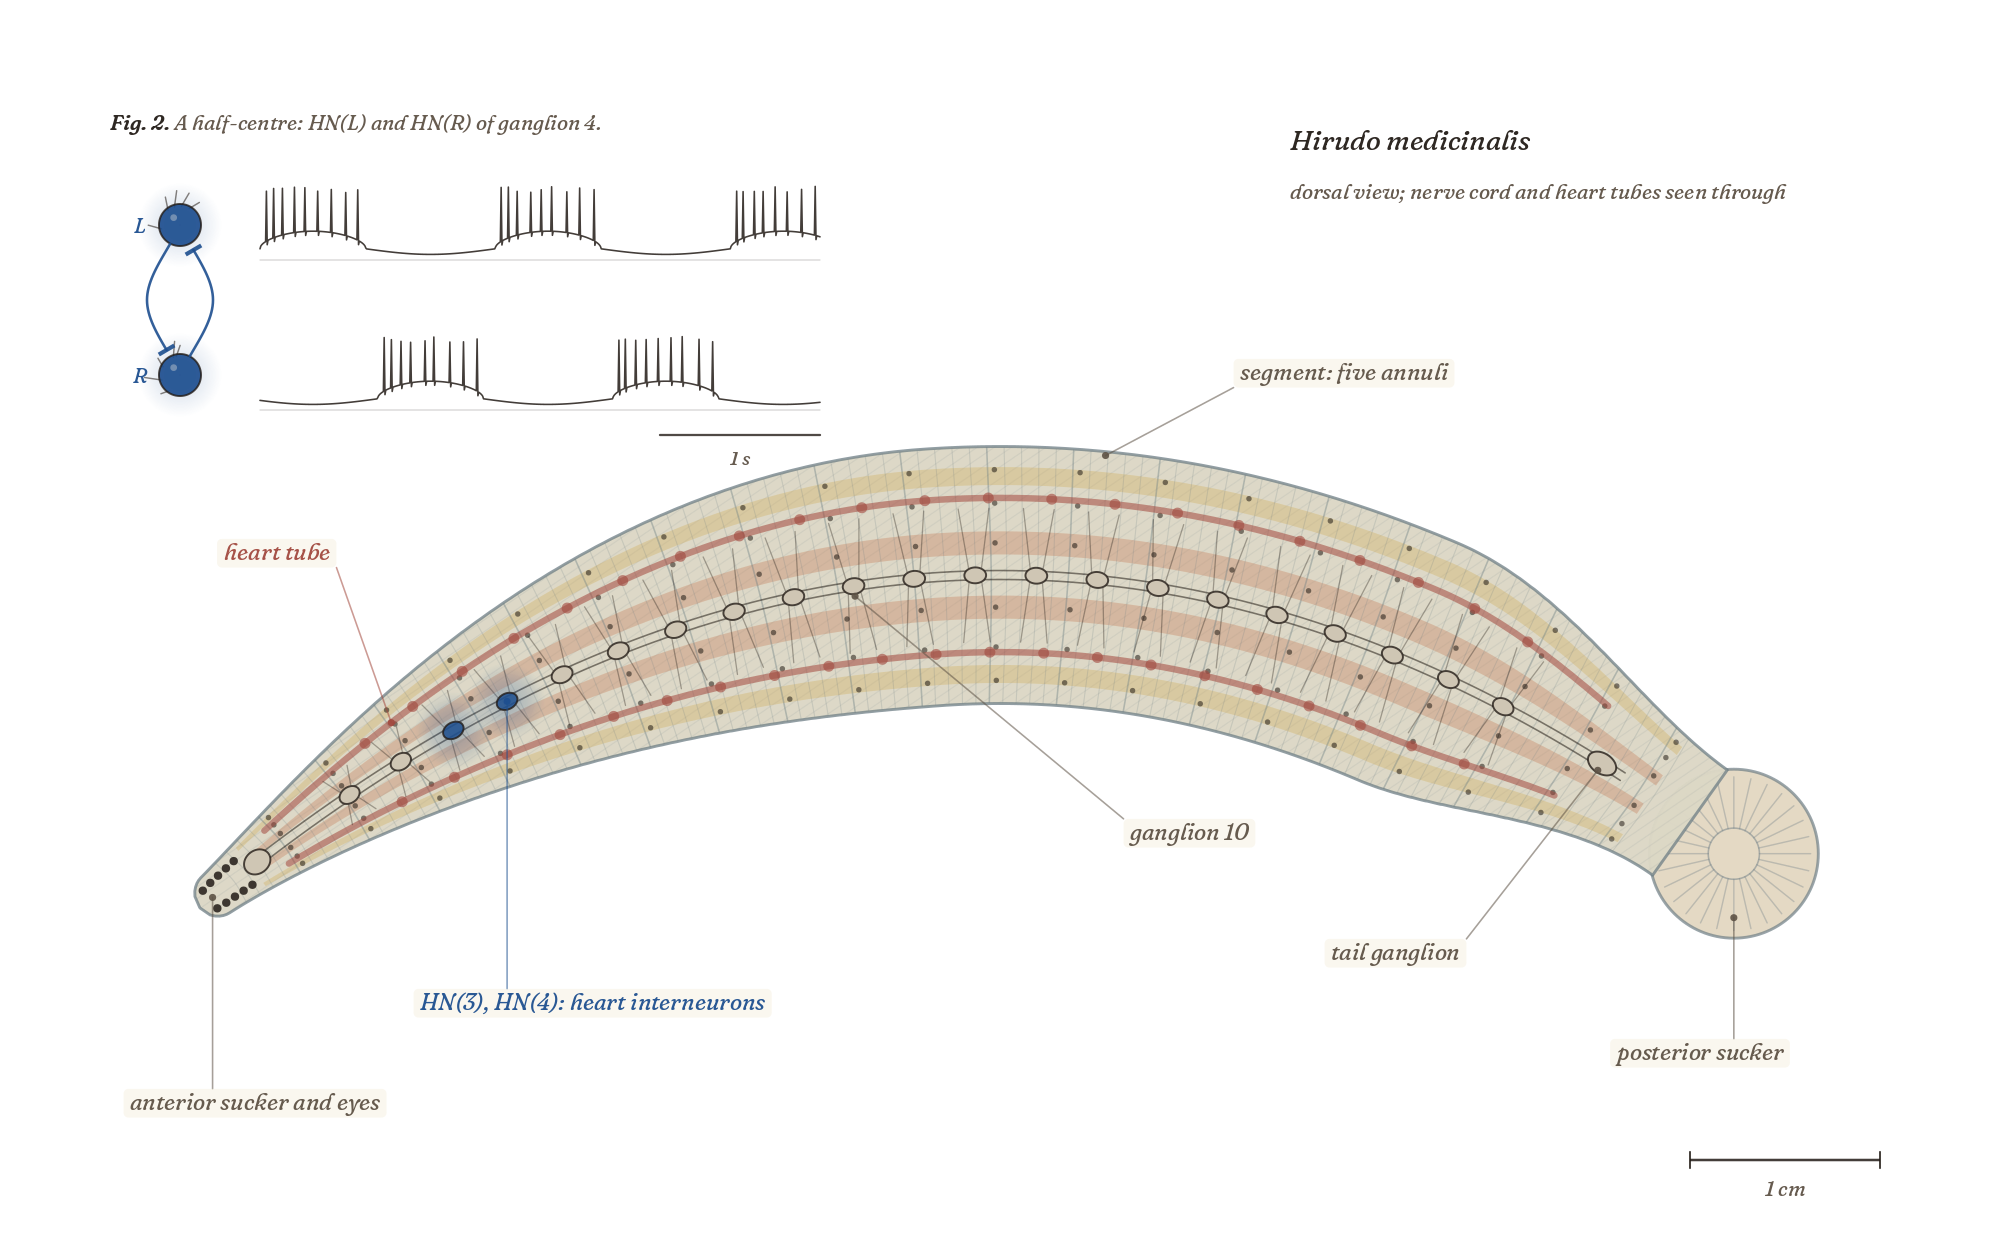
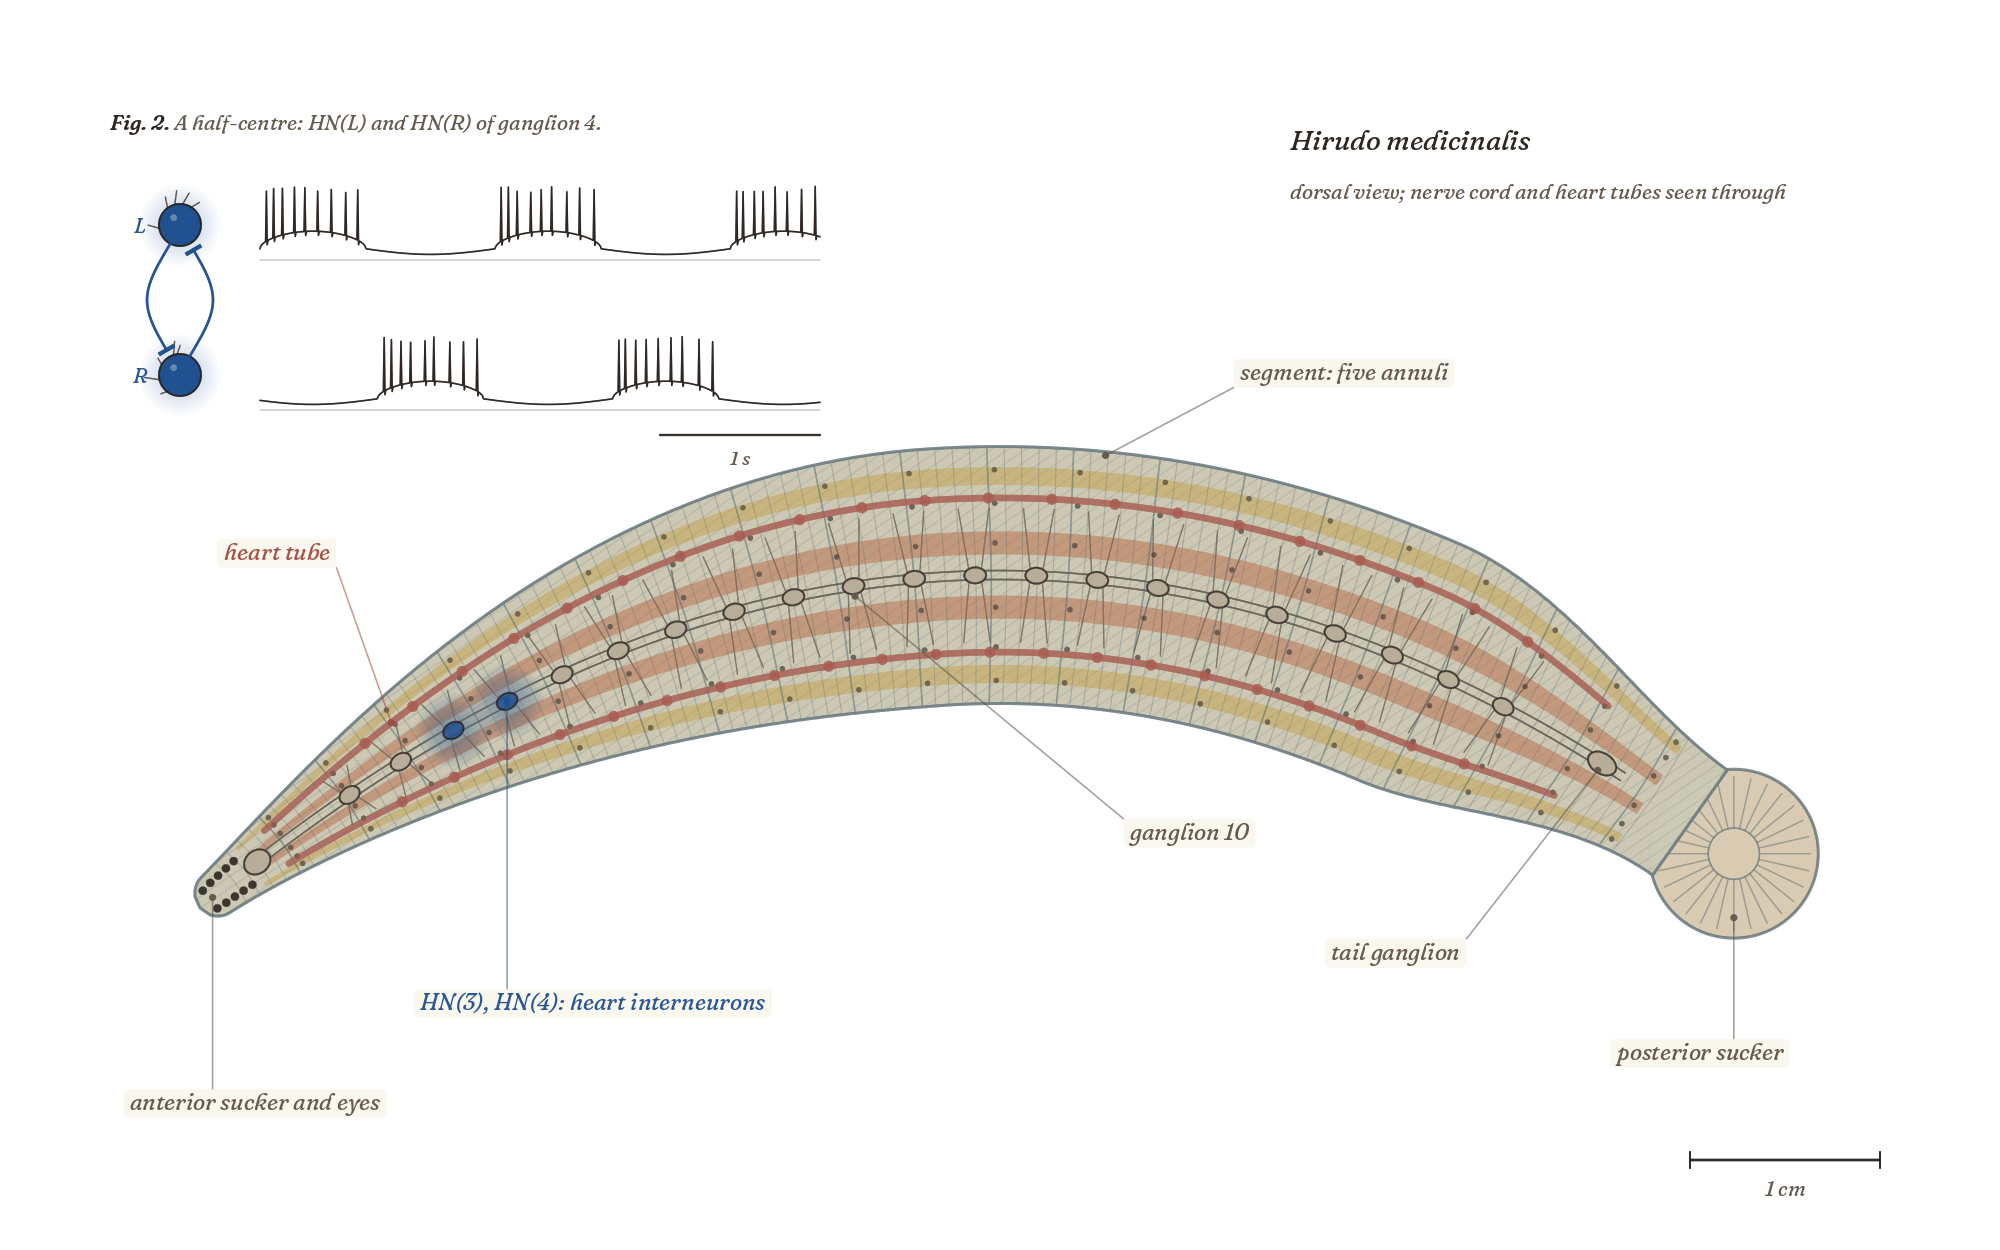
Campaign map: show the chapter plates, keep labels off their art
The ten Bestiary and Theory plates drew as a blank white page: _sc_plate_image
loaded the texture into a local, which was freed when the function returned,
before the canvas rendered, so the renderer drew its default white texture.
Textures are now held in a static cache.

- The plate is drawn at its own aspect; pins come from plates.json and its
  keep-out rects feed the label-plate placement (figures at half weight,
  lettering in full, lettering ignored on phones). plates.json is in both
  export include filters.
- Diagnosis and micro-puzzle label plates are placed too (they used to
  draw unplaced text off the right edge of the page); the fallback stays
  inside the page.
- Label placement penalises leaders that cross other plates, pins or
  leaders; the hover chips avoid their own plate and the art's lettering.
- Plate captions number every chapter in campaign order (I-XV).
- plates.py: diagnosis spots (BRANCH), keep rects for inset figures (FIGS),
  and an ink-density pass (ink.deepen) so the plates no longer read washed
  out next to the body plates. Regenerated; deterministic.

diff --git a/tools/art/plates.py b/tools/art/plates.py
@@ -36,6 +36,22 @@ LEVELS = {
     "dynamics": ["d_class", "d_phasic", "d_switch"], "rates": ["r_oscillate", "r_choose", "r_meanfield"],
     "memory": ["h_complete", "h_two", "h_learn"], "tuning": ["t_tuned", "t_sharpen", "t_decode"]}
 
+# Spots for the diagnosis cases, which hang off a spine level: a quiet patch near their parent with room for a label plate
+# beside it (fractions of the canvas, like PINS). A chapter left out here lets the map find a spot itself.
+BRANCH = {
+    "leech": {"dx_leech": (0.91, 0.36)}, "aplysia": {"dx_aplysia": (0.64, 0.86)},
+    "fly_mb": {"dx_mb_apl": (0.66, 0.92), "dx_mb_dan": (0.36, 0.90)}}
+
+# Keep-out rects (image px, weight) for the insets beside the specimen: the little figures, traces, legs and scale bars that
+# carry no lettered call-out of their own, so the map's label plates do not land on them.
+FIGS = {
+    "worm": [(1190, 200, 640, 210, 40), (870, 855, 260, 260, 40), (1680, 1140, 200, 50, 40)],
+    "leech": [(120, 180, 710, 260, 40), (1650, 770, 170, 170, 40), (1690, 1150, 190, 50, 40)],
+    "aplysia": [(130, 170, 560, 200, 40), (1740, 680, 200, 130, 40), (1700, 1140, 200, 60, 40)],
+    "fly_compass": [(90, 180, 320, 360, 40), (1450, 180, 420, 200, 40), (1370, 960, 610, 130, 40), (1740, 1150, 160, 60, 40)],
+    "fly_mb": [(90, 180, 230, 260, 40), (1620, 1150, 260, 60, 40)],
+    "crab": [(70, 120, 310, 290, 40), (1390, 140, 520, 250, 40), (190, 500, 1620, 700, 15), (1680, 1130, 220, 70, 40)]}
+
 
 def pin_px(i):
     return np.array([PINS[i][0] * W, PINS[i][1] * H])
@@ -1370,10 +1386,12 @@ def write(ids):
     man = json.loads(man_path.read_text()) if man_path.exists() else {}
     for pid in ids:
         pl = PLATES[pid]()
+        for r in FIGS.get(pid, []):
+            pl.keep_rect(*r)
         im = pl.image()
         im.save(OUT / f"{pid}.png", optimize=True)
         man[pid] = {"file": f"res://assets/plates/{pid}.png", "size": [W, H],
-                    "pins": {lv: list(PINS[i]) for i, lv in enumerate(LEVELS[pid])},
+                    "pins": {**{lv: list(PINS[i]) for i, lv in enumerate(LEVELS[pid])}, **{k: list(v) for k, v in BRANCH.get(pid, {}).items()}},
                     "keep": [[round(k[0] / W, 4), round(k[1] / H, 4), round(k[2] / W, 4), round(k[3] / H, 4), k[4]] for k in pl.keep]}
         print("wrote", OUT / f"{pid}.png")
     man = {k: man[k] for k in sorted(man)}

diff --git a/tools/art/ink.py b/tools/art/ink.py
@@ -308,7 +308,30 @@ class Plate:
     def image(self):
         self.surf.flush()
         im = Image.frombuffer("RGBA", (self.w, self.h), bytes(self.surf.get_data()), "raw", "BGRa", 0, 1).copy()
-        return letter(im, self.labels, self)
+        return letter(deepen(im), self.labels, self)
+
+
+# Ink density. Drawn with the procedural plates' alphas and tissue tints, a plate read washed out beside them on the map: the
+# 2000 px image is shown at about 1230 px, so fine strokes thin out, and the pale tissue fills sit only a few shades off the
+# paper. deepen() moves every pale tint away from the paper (gain DEEPEN_GAIN for colours near the paper, fading to none for
+# colours already DEEPEN_FAR off it, so the stain hues keep their roles) and raises faint alpha (a -> 1 - (1 - a)^DEEPEN_ALPHA).
+# It runs before the lettering, so the slips and the text are untouched.
+DEEPEN_GAIN = 0.6
+DEEPEN_NEAR, DEEPEN_FAR = 0.15, 0.60
+DEEPEN_ALPHA = 1.5
+
+
+def deepen(im):
+    a = np.asarray(im, dtype=np.float64) / 255.0
+    rgb, al = a[..., :3], a[..., 3:]
+    d = np.array(SHEET) - rgb
+    dist = np.abs(d).max(-1, keepdims=True)
+    t = np.clip((dist - DEEPEN_NEAR) / (DEEPEN_FAR - DEEPEN_NEAR), 0.0, 1.0)
+    k = 1.0 + DEEPEN_GAIN * (1.0 - t * t * (3.0 - 2.0 * t))
+    rgb = np.clip(np.array(SHEET) - d * k, 0.0, 1.0)
+    al = 1.0 - (1.0 - al) ** DEEPEN_ALPHA
+    out = np.concatenate([rgb, al], -1)
+    return Image.fromarray((out * 255.0 + 0.5).astype(np.uint8), "RGBA")
 
 
 _fonts = {}

diff --git a/docs/IDENTITY.md b/docs/IDENTITY.md
@@ -63,4 +63,5 @@ The body chapters draw their atlas pages live in `godot/ui/anatomy.gd`. The ten 
 - **Format:** 2000 × 1250 RGBA, the aspect of the map canvas. The paper is transparent, so the map draws its own sheet and engraved frame underneath. Stretch the plate over the whole canvas rect. A pin at canvas fraction (fx, fy) then sits at (fx × 2000, fy × 1250) on the plate.
 - **Style:** the same as the procedural plates. Line weights and lettering are given in logical px at 1080p and scaled by 2000 / 1236. Labels are Fraunces italic (opsz 24, wght 420) on translucent paper slips. Specimens are sepia or slate washes with ink rims, hatching and stipple. Stain colours keep their roles: sienna for excitation, Prussian blue for inhibition, verdigris for sensory, madder plum for motor, gamboge for modulators.
 - **Composition:** each Bestiary plate has the specimen, its species name, a scale bar, and one or two "Fig. N." insets (a circuit, a section or a trace). Each Theory plate is a set of numbered figures. All of them leave the three planned pin spots (0.2, 0.62), (0.5, 0.36) and (0.8, 0.62) readable.
-- **Pins and keep-out areas:** `plates.json` lists, for each plate, the pin positions it was composed around and keep-out rects as canvas fractions `[x, y, w, h, weight]`. The rects cover the anatomy and every lettered call-out. The map can feed them to its label-plate placement, the way `keep_rect` works for the procedural scenes.
+- **Pins and keep-out areas:** `plates.json` lists, for each plate, the pin positions it was composed around (the three spine levels, plus a quiet spot for each diagnosis case where `BRANCH` in plates.py gives one) and keep-out rects as fractions of the plate `[x, y, w, h, weight]`. The rects cover the anatomy, the inset figures (`FIGS`) and every lettered call-out (weight 120). The map (`_sc_plate_image` in `godot/ui/screens/tasks.gd`) draws the plate at its own aspect inside the frame, takes the pins from it, and feeds the rects to its label-plate placement like `keep_rect`: the anatomy and figures at half weight, the lettering in full (and not at all on a phone, where it is too small to read).
+- **Ink density:** `deepen()` in `tools/art/ink.py` pushes pale tints away from the paper and raises faint alpha before the lettering, so the plates hold up beside the procedural body plates at map size.
